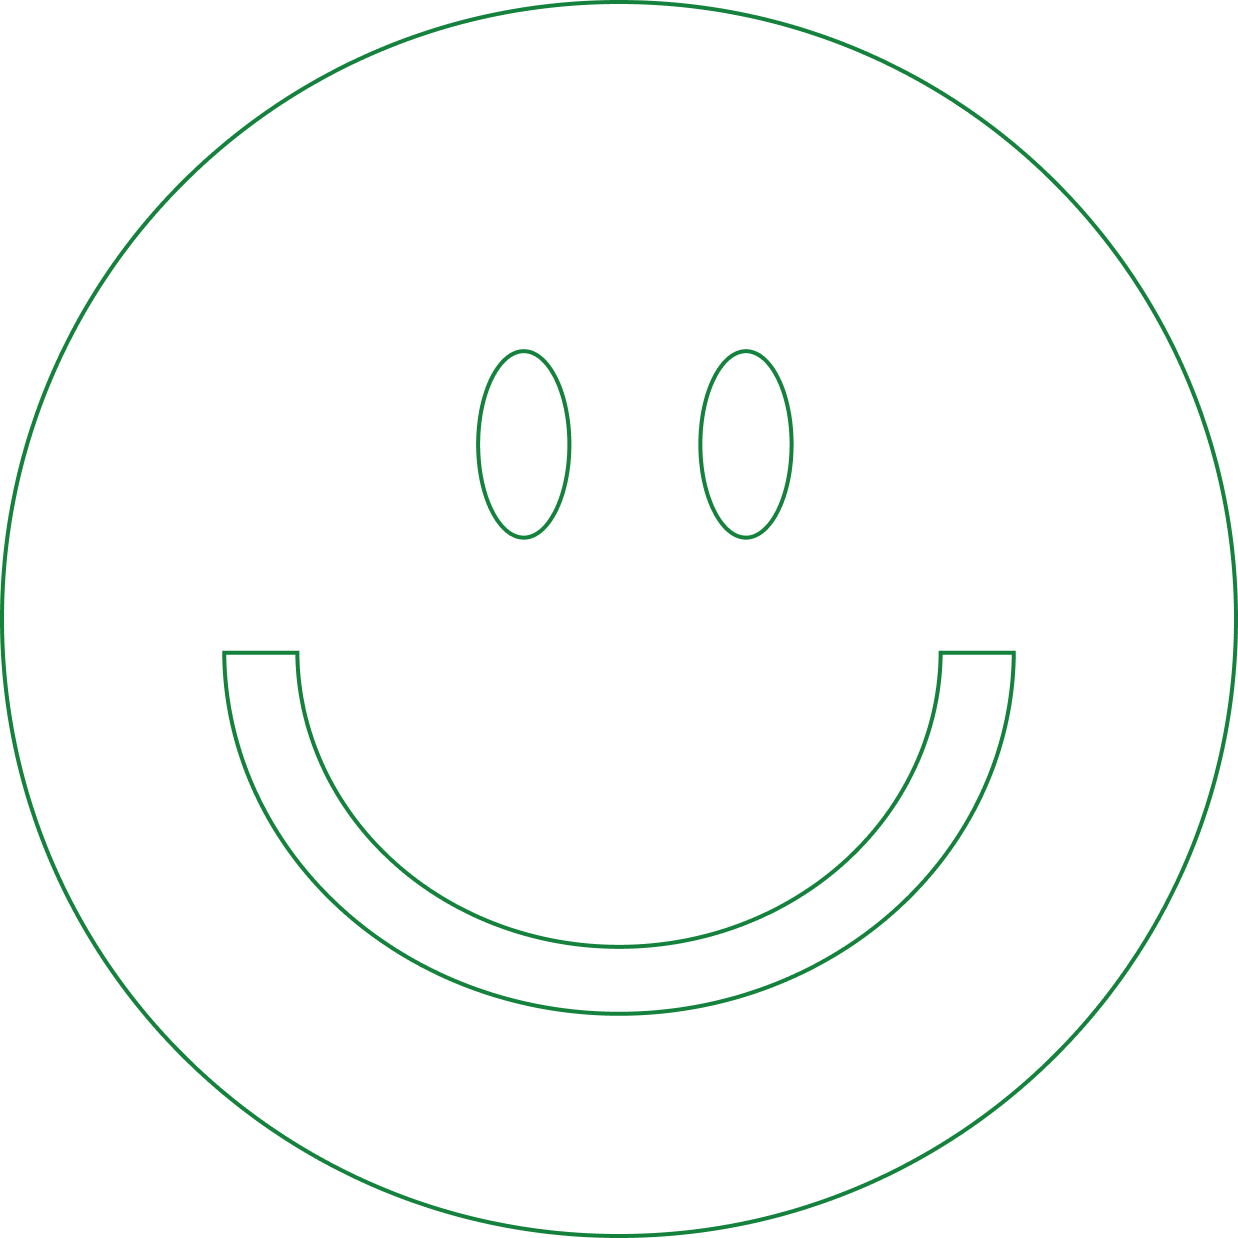
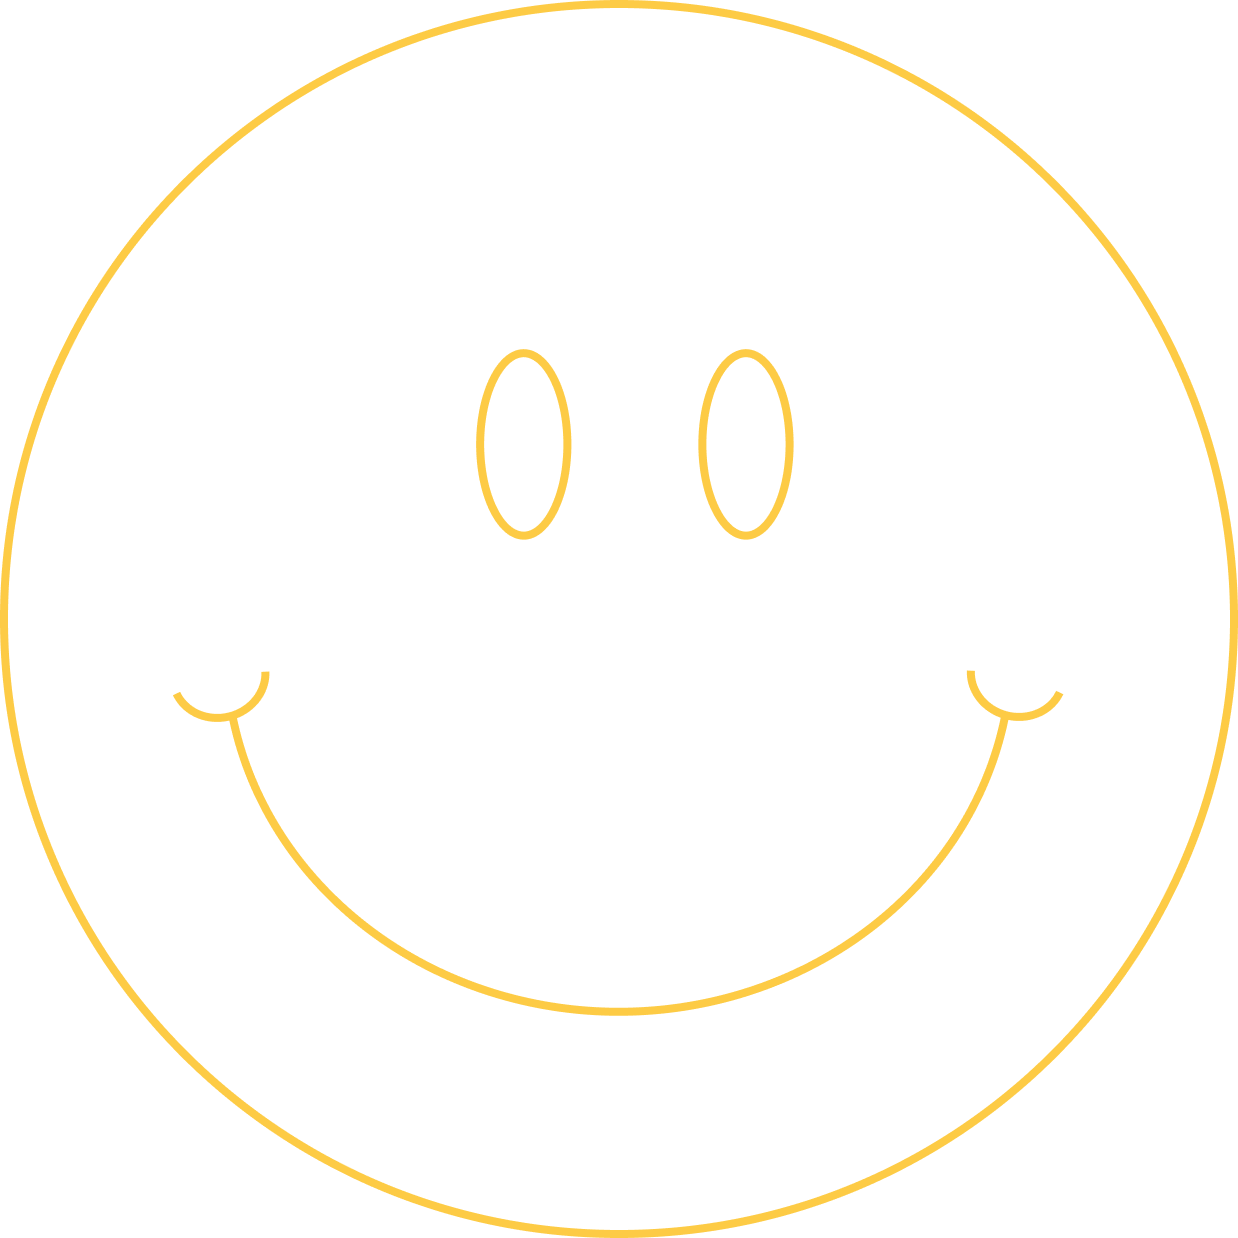
change the colour settings to dark theme

diff --git a/src/index.css b/src/index.css
@@ -7,19 +7,22 @@
     font-family: "Gothic A1", sans-serif;
 }
 
-:root {
-    /* Colours */
-    --clr-primary: #060914;
+/* 
+	version 1. Green white
+	--clr-primary: #060914;
     --clr-primary-disable: #8f9095;
     --clr-secondary: #14813d;
-    --clr-secondary-disable: #95c6a7;
+    --clr-secondary-disable: #95c6a7; 
+	
+*/
 
-    /* Dark mode */
-    --dark-mode-primary: #ffffff;
-    --dark-mode-primary-disable: #8f9095;
-    --dark-mode-secondary: #2873c5;
-    --dark-mode-secondary-disable: #9ec0e5;
-    --dark-mode-background: #060914;
+:root {
+    /* Colours version 2*/
+    --clr-primary: #e9e8e5;
+    --clr-primary-disable: #8f9095;
+    --clr-secondary: #c51a22;
+    --clr-secondary-disable: #a78734;
+    --clr-primary_background: #060914;
 
     /* Typography */
     /* https://type-scale.com/ */
@@ -45,6 +48,12 @@
     --body-bottom-margin: 1.75em;
 
     --item-spacing: 48px;
+}
+
+/* setting for version 2 */
+body {
+    background-color: var(--clr-primary_background);
+    color: var(--clr-primary);
 }
 
 h3,
@@ -101,7 +110,7 @@ a.link--active::after {
     content: "";
     height: 2px;
     width: 100%;
-    background-color: var(--clr-primary);
+    background-color: var(--clr-secondary-disable);
     position: absolute;
     left: 0px;
     display: none;
@@ -113,7 +122,7 @@ a.link--active::after {
     content: "";
     height: 2px;
     width: 100%;
-    background-color: var(--clr-primary);
+    background-color: var(--clr-secondary-disable);
     position: absolute;
     left: 0px;
 }

diff --git a/src/routes/Layout.module.css b/src/routes/Layout.module.css
@@ -14,26 +14,39 @@ main {
 
 .smiley_background_image {
     position: absolute;
-    right: -100px;
+    right: -40px;
     width: 600px;
     height: auto;
     top: var(--item-spacing);
-    filter: blur(8px);
-    animation: disform 12s infinite linear;
+    filter: blur(16px);
+    /* animation: disform 20s infinite linear; */
+    z-index: -99999;
 }
 
 @keyframes disform {
     0%,
     100% {
-        transform: skew(0.01turn, 4deg);
+        transform: skew(0.01turn, 2deg);
+        /* filter: blur(8px);
+        right: -100px;
+        top: 48px; */
     }
     25% {
         transform: scale(98%);
+        /* filter: blur(6px);
+        right: -90px;
+        top: 60px; */
     }
     50% {
-        transform: skew(-0.01turn, -4deg);
+        transform: skew(-0.01turn, -2deg);
+        /* filter: blur(4px);
+        right: -100px;
+        top: 48px; */
     }
     75% {
         transform: scale(102%);
+        /* filter: blur(6px);
+        right: -90px;
+        top: 60px; */
     }
 }

diff --git a/src/routes/Layout.jsx b/src/routes/Layout.jsx
@@ -10,11 +10,12 @@ import styles from "./Layout.module.css";
 const Layout = () => {
     return (
         <div className={styles.layout}>
-            <img
-                className={styles.smiley_background_image}
-                src="smiley_bg.png"
-                alt="Smiley background image"
-            />
+            {/*      <img
+                    className={styles.smiley_background_image}
+                    src="smiley_bg.png"
+                    alt="Smiley background image"
+                />
+             */}
             <header>
                 <TopNavigation />
             </header>

diff --git a/src/routes/About.jsx b/src/routes/About.jsx
@@ -21,9 +21,10 @@ const About = () => {
                         Constantly evolving Front-end developer, former tattoo
                         artist and Certified Harley Davidson technician.
                     </p>
-                    <p className={styles.body_date}>
-                        {`| ${new Date().toDateString()}`}
-                    </p>
+                    {/* <p className={styles.body_date}>
+                        <span>| </span>
+                        {`${new Date().toDateString()}`}
+                    </p> */}
                 </div>
             </article>
         </section>

diff --git a/src/routes/About.module.css b/src/routes/About.module.css
@@ -46,6 +46,14 @@
 
 .body_date {
     font-size: 11px;
+    /*  background-color: var(--clr-primary);
+    width: fit-content;
+    padding-right: var(--item-spacing); */
+}
+
+.body_date span {
+    color: var(--clr-primary);
+    font-size: var(--text-base);
 }
 
 /* 
